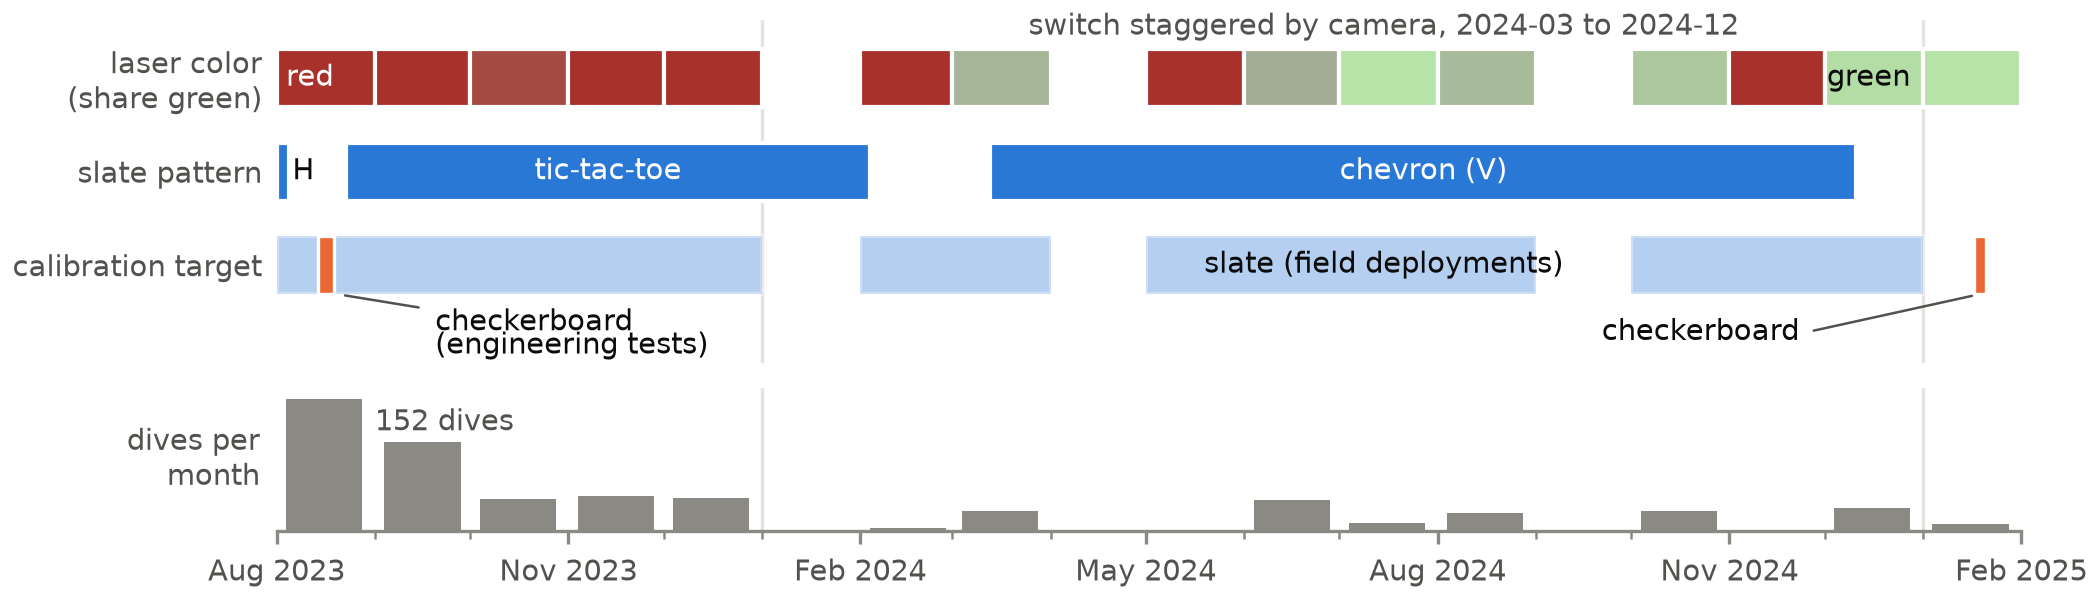
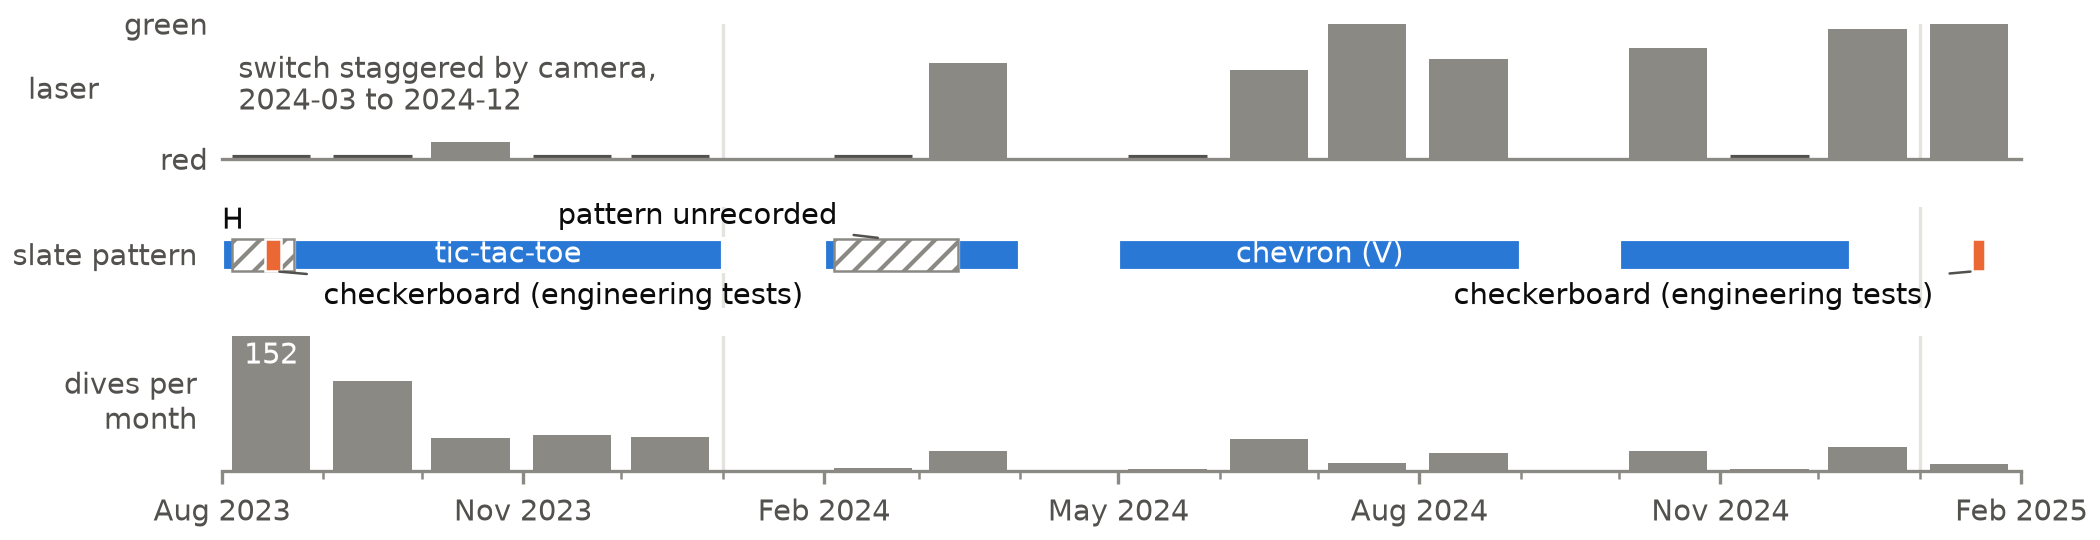
fig: timeline in three lanes, laser as monthly bars
Laser lane: a bar per month for the share of dives with a green laser
(0% red, 100% green), styled like the dives histogram, so it reads in
grayscale and for red-green colorblind readers. Calibration-target lane
merged into the slate lane (checkerboard engineering tests marked on
it). Months with no dives are blank in every lane; hatching marks only
field dives whose pattern is unrecorded. 7 x 1.8 in.

diff --git a/analysis/codesign/fig_timeline.py b/analysis/codesign/fig_timeline.py
@@ -1,24 +1,24 @@
 """Figure fig:timeline (SenSys section 4): how the input was shaped for people over the collection period.
 
-Time axis 2023-08 .. 2025-01 (the collection period). Four lanes, all from the per-dive extract
+Time axis 2023-08 .. 2025-01 (the collection period). Three lanes, all from the per-dive extract
 data/db_extracts/timeline_dives.psv (sql/extract_timeline_dives.sql) unless noted:
-  laser color         per month, the share of laser-labeled dives that are green (a dive is red or
-                      green when >= 90% of its completed laser labels with a dot are that color; mixed
-                      dives count as not green). Months with no dives are left empty. Red -> green with
-                      lightness rising monotonically, so the lane reads in grayscale.
-  slate pattern       H, tic-tac-toe, chevron (V), each from the first to the last dive known to use it:
-                      dive.dive_slate_id (36 dives), a dive's calibration dive's slate (dive.calibration_dive_id,
-                      15 more), and slate frames read by eye (analysis/codesign/slate_pattern_reads.csv, image
-                      ids listed; tic-tac-toe on 2023-08-23 and 2023-12-01 .. 2024-02-03). The short changeovers
-                      between patterns (2023-08-04 .. 08-22, 2024-02-04 .. 03-12) are left blank; after
-                      2024-12-10 there are no field dives.
-  calibration target  checkerboard engineering tests: 2023-08-14..18 (dive.calibration_target_id) and
-                      2025-01-17 (TG-7 sessions; analysis/codesign/timeline.yaml); slate: the months with
-                      field (reef) dives (data/db_extracts/dive_environment.psv).
-  dives per month     all 525 dives by capture month (camera clock).
-Dates are tabulated by analysis/codesign/timeline_dates.py. No mount lane: its dates are unrecorded.
+  laser color       a bar per month: the share of laser-labeled dives with a green laser (a dive is red or
+                    green when >= 90% of its completed laser labels with a dot are that color; mixed dives
+                    count as not green), 0% labeled "red", 100% "green". Bar height carries the value, so
+                    it reads in grayscale and for red-green colorblind readers. A month with labeled dives
+                    but 0% green gets a short stub on the baseline so it is not mistaken for an empty month.
+  slate pattern     H, tic-tac-toe, chevron (V), each from the first to the last dive known to use it:
+                    dive.dive_slate_id (36 dives), a dive's calibration dive's slate (dive.calibration_dive_id;
+                    data/db_extracts/timeline_slate_links.psv, sql/extract_timeline_slate_links.sql, 15 more),
+                    and slate frames read by eye (analysis/codesign/slate_pattern_reads.csv, image ids listed).
+                    Checkerboard engineering tests on the same lane: 2023-08-14..18 (dive.calibration_target_id)
+                    and 2025-01-17 (TG-7 sessions; analysis/codesign/timeline.yaml). Hatched = dives whose
+                    pattern is unrecorded (field dives between two patterns: 2023-08-17, 2024-02-28).
+  dives per month   all 525 dives by capture month (camera clock).
+Months with no dives (2024-01, 2024-04, 2024-09) are blank in every lane. Dates are tabulated by
+analysis/codesign/timeline_dates.py. No mount lane: its dates are unrecorded.
 
-Writes analysis/codesign/figures/fig_timeline.{pdf,png} at 7 x 2 in, no title, no metadata.
+Writes analysis/codesign/figures/fig_timeline.{pdf,png} at 7 x 1.8 in, no title, no metadata.
 Run: uv run python analysis/codesign/fig_timeline.py
 """
 from __future__ import annotations
@@ -27,134 +27,142 @@ import matplotlib
 matplotlib.use("Agg")
 import matplotlib.dates as mdates
 import matplotlib.pyplot as plt
-import numpy as np
 import pandas as pd
-from matplotlib.colors import LinearSegmentedColormap, to_rgb
 from matplotlib.patches import Rectangle
 
 from fishsense_cscw.paths import REPO
 
 OUT = REPO / "analysis/codesign/figures"
-W, H, FS = 7.0, 2.0, 7
+W, H, FS = 7.0, 1.8, 7
 BLUE, ORANGE = "#2a78d6", "#eb6834"                     # reference palette slots 1-2 (slate, checkerboard)
 INK, INK2, MUTED, GRID = "#0b0b0b", "#52514e", "#8a8984", "#e4e3df"
-RED, MID, GREEN = "#a8322b", "#9a958c", "#b6e3a8"        # laser share: dark red -> gray -> light green
 T0, T1 = pd.Timestamp("2023-08-01"), pd.Timestamp("2025-02-01")
 CB_TESTS = [("2023-08-14", "2023-08-18"), ("2025-01-17", "2025-01-17")]
-LANES = {"laser": 2, "slate": 1, "target": 0}
-BAR = 0.62
-MIN_DAYS = 4          # draw a one-day span at least this wide so it prints
+BAR, MIN_DAYS, BAR_DAYS = 0.6, 4, 24   # lane bar height; narrowest span drawn (days); monthly bar width (days)
 
 
-def luminance(c):
-    r, g, b = [x / 12.92 if x <= 0.04045 else ((x + 0.055) / 1.055) ** 2.4 for x in to_rgb(c)]
-    return 0.2126 * r + 0.7152 * g + 0.0722 * b
+def x(t):
+    return mdates.date2num(pd.Timestamp(t))
 
 
-def span(ax, y, a, b, **kw):
-    a, b = pd.Timestamp(a), pd.Timestamp(b) + pd.Timedelta(days=1)
+def pattern(name):
+    n = str(name)
+    return "H" if n.startswith("H") else "tic-tac-toe" if n.startswith("Tic") else "chevron (V)" if n.startswith("V") else None
+
+
+def pieces(a, b, empty):
+    """[a, b) split around months with no dives, so those months stay blank."""
+    out, cur = [], pd.Timestamp(a)
+    b = pd.Timestamp(b)
+    for m in sorted(empty):
+        s, e = m.start_time, (m + 1).start_time
+        if s < b and e > cur:
+            if s > cur:
+                out.append((cur, s))
+            cur = max(cur, e)
+    if cur < b:
+        out.append((cur, b))
+    return out
+
+
+def lane_box(ax, a, b, y=0.0, **kw):
+    a, b = pd.Timestamp(a), pd.Timestamp(b)
     if (b - a).days < MIN_DAYS:
         b = a + pd.Timedelta(days=MIN_DAYS)
-    ax.add_patch(Rectangle((mdates.date2num(a), y - BAR / 2), mdates.date2num(b) - mdates.date2num(a), BAR, **kw))
+    ax.add_patch(Rectangle((x(a), y - BAR / 2), x(b) - x(a), BAR, **kw))
     return a, b
 
 
 def main():
-    assert luminance(RED) < luminance(MID) < luminance(GREEN), "laser ramp must lighten red -> green"
     D = pd.read_csv(REPO / "data/db_extracts/timeline_dives.psv", sep="|", header=None,
                     names="dive_id dive_datetime camera slate target images red green".split())
     D["t"] = pd.to_datetime(D.dive_datetime, utc=True).dt.tz_localize(None); D["month"] = D.t.dt.to_period("M")
     E = pd.read_csv(REPO / "data/db_extracts/dive_environment.psv", sep="|", header=None, names=["dive_id", "env"])
     D = D.merge(E, on="dive_id", how="left")
     lab = D.red + D.green
-    D["is_green"] = (lab > 0) & (D.green >= 0.9 * lab)
-    D["labelled"] = lab > 0
+    D["labeled"] = lab > 0; D["is_green"] = D.labeled & (D.green >= 0.9 * lab)
     months = pd.period_range("2023-08", "2025-01", freq="M")
-    per = D.groupby("month").agg(dives=("dive_id", "size"), labelled=("labelled", "sum"), green=("is_green", "sum")).reindex(months, fill_value=0)
+    per = D.groupby("month").agg(dives=("dive_id", "size"), labeled=("labeled", "sum"), green=("is_green", "sum")).reindex(months, fill_value=0)
+    empty = [m for m in months if per.loc[m, "dives"] == 0]
+    mid = [x(m.start_time + pd.Timedelta(days=15)) for m in months]
 
     plt.rcParams.update({"font.size": FS, "axes.labelsize": FS, "xtick.labelsize": FS, "ytick.labelsize": FS,
                          "axes.edgecolor": MUTED, "text.color": INK, "xtick.color": INK2, "ytick.color": INK2,
                          "pdf.fonttype": 42, "savefig.bbox": "standard"})
-    fig, (ax, hx) = plt.subplots(2, 1, figsize=(W, H), sharex=True, layout="constrained",
-                                 gridspec_kw=dict(height_ratios=[3, 1.25], hspace=0.02))
-    cmap = LinearSegmentedColormap.from_list("laser", [RED, MID, GREEN])
+    fig, (lx, sx, hx) = plt.subplots(3, 1, figsize=(W, H), sharex=True, layout="constrained",
+                                     gridspec_kw=dict(height_ratios=[1.0, 0.75, 1.0]))
 
-    # lane 1: laser color, share of labeled dives that are green
-    for m, r in per.iterrows():
-        a, b = m.start_time, (m + 1).start_time
-        if r.labelled:
-            ax.add_patch(Rectangle((mdates.date2num(a), LANES["laser"] - BAR / 2), mdates.date2num(b) - mdates.date2num(a), BAR,
-                                   fc=cmap(r.green / r.labelled), ec="white", lw=1.0))
-    ax.text(mdates.date2num(pd.Timestamp("2023-08-04")), LANES["laser"], "red", va="center", ha="left", color="white", fontsize=FS)
-    ax.text(mdates.date2num(pd.Timestamp("2024-12-28")), LANES["laser"], "green", va="center", ha="right", color=INK, fontsize=FS)
-    ax.text(mdates.date2num(pd.Timestamp("2024-07-15")), LANES["laser"] + BAR / 2 + 0.08, "switch staggered by camera, 2024-03 to 2024-12",
-            va="bottom", ha="center", color=INK2, fontsize=FS)
+    # lane 1: share of labeled dives with a green laser, one bar per month
+    share = (per.green / per.labeled.where(per.labeled > 0))
+    for xm, m in zip(mid, months):
+        if per.loc[m, "labeled"] == 0:
+            continue
+        v = share.loc[m]
+        lx.bar(xm, max(v, 0.0), width=BAR_DAYS, color=MUTED, edgecolor="none")
+        if v == 0:
+            lx.plot([xm - BAR_DAYS / 2, xm + BAR_DAYS / 2], [0, 0], color=INK2, lw=2.2, solid_capstyle="butt")
+    lx.set_ylim(0, 1.0); lx.set_yticks([0, 1], ["red", "green"])
+    lx.text(x("2023-08-06"), 0.55, "switch staggered by camera,\n2024-03 to 2024-12", va="center", ha="left", color=INK2, fontsize=FS, linespacing=1.0)
+    lx.set_ylabel("laser", rotation=0, ha="right", va="center", labelpad=6, color=INK2)
 
-    # lane 2: slate pattern from the first to the last dive known to use it (DB, calibration-dive link, image reads)
-    def pat(name):
-        n = str(name)
-        return "H" if n.startswith("H") else "tic-tac-toe" if n.startswith("Tic") else "chevron (V)" if n.startswith("V") else None
-    known = D.assign(pattern=D.slate.map(pat))[["t", "pattern"]].dropna()
+    # lane 2: slate pattern, checkerboard tests on the same lane
+    known = D.assign(pattern=D.slate.map(pattern))[["t", "pattern"]].dropna()
     link = pd.read_csv(REPO / "data/db_extracts/timeline_slate_links.psv", sep="|", header=None, names=["dive_id", "slate"])
-    link = link.merge(D[["dive_id", "t"]], on="dive_id").assign(pattern=lambda x: x.slate.map(pat))[["t", "pattern"]]
+    link = link.merge(D[["dive_id", "t"]], on="dive_id").assign(pattern=lambda d: d.slate.map(pattern))[["t", "pattern"]]
     reads = pd.read_csv(REPO / "analysis/codesign/slate_pattern_reads.csv", parse_dates=["date"]).query("pattern != 'unreadable'")
-    reads = reads.rename(columns={"date": "t"})[["t", "pattern"]]
-    known = pd.concat([known, link, reads]).groupby("pattern").t.agg(["min", "max"])
-    for name in ("H", "tic-tac-toe", "chevron (V)"):
-        a_, b_ = span(ax, LANES["slate"], known.loc[name, "min"].normalize(), known.loc[name, "max"].normalize(), fc=BLUE, ec="white", lw=1.0)
-        if name == "H":
-            ax.text(mdates.date2num(b_) + 1, LANES["slate"], "H", va="center", ha="left", color=INK, fontsize=FS)
+    known = pd.concat([known, link, reads.rename(columns={"date": "t"})[["t", "pattern"]]]).groupby("pattern").t.agg(["min", "max"])
+    spans = {p: (known.loc[p, "min"].normalize(), known.loc[p, "max"].normalize() + pd.Timedelta(days=1)) for p in known.index}
+    for p, (a, b) in spans.items():
+        parts = pieces(a, b, empty)
+        for pa, pb in parts:
+            lane_box(sx, pa, pb, fc=BLUE, ec="white", lw=1.0)
+        widest = max(parts, key=lambda q: q[1] - q[0])
+        if p == "H":   # above the lane: the changeover after it is hatched
+            sx.text(x(widest[0]), BAR / 2 + 0.06, "H", va="bottom", ha="left", color=INK, fontsize=FS)
         else:
-            ax.text(mdates.date2num(a_ + (b_ - a_) / 2), LANES["slate"], name, va="center", ha="center", color="white", fontsize=FS)
-
-    # lane 3: calibration target; slate over months with field dives, checkerboard tests as short bars
-    field = sorted(D[D.env == "reef"].month.unique())
-    runs, cur = [], [field[0], field[0]]
-    for m in field[1:]:
-        if m == cur[1] + 1:
-            cur[1] = m
-        else:
-            runs.append(cur); cur = [m, m]
-    runs.append(cur)
-    for a, b in runs:
-        x0, x1 = mdates.date2num(a.start_time), mdates.date2num((b + 1).start_time)
-        ax.add_patch(Rectangle((x0, LANES["target"] - BAR / 2), x1 - x0, BAR, fc=BLUE, ec="white", lw=1.0, alpha=0.35))
-    ax.text(mdates.date2num(pd.Timestamp("2024-07-15")), LANES["target"], "slate (field deployments)", va="center", ha="center", color=INK, fontsize=FS)
+            sx.text(x(widest[0] + (widest[1] - widest[0]) / 2), 0, p, va="center", ha="center", color="white", fontsize=FS)
+    # hatched: field dives between two patterns whose pattern is unrecorded
+    order = sorted(spans.items(), key=lambda kv: kv[1][0])
+    for (_, (_, b0)), (_, (a1, _)) in zip(order, order[1:]):
+        field = D[(D.t >= b0) & (D.t < a1) & (D.env == "reef")]
+        if len(field):
+            for pa, pb in pieces(b0, a1, empty):
+                lane_box(sx, pa, pb, fc="white", ec=MUTED, lw=0.6, hatch="////")
     for a, b in CB_TESTS:
-        span(ax, LANES["target"], a, b, fc=ORANGE, ec="white", lw=0.8, zorder=3)
-    ax.annotate("checkerboard\n(engineering tests)", xy=(mdates.date2num(pd.Timestamp("2023-08-20")), LANES["target"] - BAR / 2),
-                xytext=(mdates.date2num(pd.Timestamp("2023-09-20")), LANES["target"] - 0.72), textcoords="data", va="center", ha="left",
-                fontsize=FS, color=INK, linespacing=0.9, arrowprops=dict(arrowstyle="-", color=INK2, lw=0.6))
-    ax.annotate("", xy=(mdates.date2num(pd.Timestamp("2025-01-19")), LANES["target"] - BAR / 2),
-                xytext=(mdates.date2num(pd.Timestamp("2024-11-25")), LANES["target"] - 0.72), arrowprops=dict(arrowstyle="-", color=INK2, lw=0.6))
-    ax.text(mdates.date2num(pd.Timestamp("2024-11-23")), LANES["target"] - 0.72, "checkerboard", va="center", ha="right", fontsize=FS, color=INK)
+        lane_box(sx, a, pd.Timestamp(b) + pd.Timedelta(days=1), fc=ORANGE, ec="white", lw=0.6, zorder=3)
+    sx.annotate("checkerboard (engineering tests)", xy=(x("2023-08-16"), -BAR / 2), xytext=(x("2023-09-01"), -0.78),
+                va="center", ha="left", fontsize=FS, color=INK, arrowprops=dict(arrowstyle="-", color=INK2, lw=0.6))
+    sx.annotate("checkerboard (engineering tests)", xy=(x("2025-01-19"), -BAR / 2), xytext=(x("2025-01-05"), -0.78),
+                va="center", ha="right", fontsize=FS, color=INK, arrowprops=dict(arrowstyle="-", color=INK2, lw=0.6))
+    sx.annotate("pattern unrecorded", xy=(x("2024-02-20"), BAR / 2), xytext=(x("2024-02-05"), 0.72),
+                va="center", ha="right", fontsize=FS, color=INK, arrowprops=dict(arrowstyle="-", color=INK2, lw=0.6))
+    sx.set_ylim(-1.0, 0.9); sx.set_yticks([])
+    sx.set_ylabel("slate pattern", rotation=0, ha="right", va="center", labelpad=6, color=INK2)
 
-    ax.set_ylim(-1.05, 2.62); ax.set_yticks([2, 1, 0], ["laser color\n(share green)", "slate pattern", "calibration target"])
-    ax.tick_params(axis="y", length=0); ax.tick_params(axis="x", which="both", length=0, labelbottom=False)
-    for s in ("top", "right", "bottom", "left"):
-        ax.spines[s].set_visible(False)
-
-    # lane 4: dives per month
-    x = [mdates.date2num(m.start_time + pd.Timedelta(days=15)) for m in months]
-    hx.bar(x, per.dives.values, width=24, color=MUTED, edgecolor="none")
+    # lane 3: dives per month
+    hx.bar(mid, per.dives.values, width=BAR_DAYS, color=MUTED, edgecolor="none")
     top = per.dives.idxmax()
-    hx.text(mdates.date2num(top.start_time + pd.Timedelta(days=15)) + 16, per.dives.max() * 0.82, f"{per.dives.max()} dives", fontsize=FS, color=INK2, va="center")
-    hx.set_ylim(0, per.dives.max() * 1.08); hx.set_yticks([]); hx.set_ylabel("dives per\nmonth", rotation=0, ha="right", va="center", labelpad=4, color=INK2)
-    for s in ("top", "right", "left"):
-        hx.spines[s].set_visible(False)
-    hx.spines["bottom"].set_color(MUTED)
+    hx.text(x(top.start_time + pd.Timedelta(days=15)), per.dives.max() - 6, f"{per.dives.max()}", va="top", ha="center", color="white", fontsize=FS)
+    hx.set_ylim(0, per.dives.max()); hx.set_yticks([])
+    hx.set_ylabel("dives per\nmonth", rotation=0, ha="right", va="center", labelpad=6, color=INK2)
+
+    for a in (lx, sx, hx):
+        for s in ("top", "right", "left"):
+            a.spines[s].set_visible(False)
+        a.spines["bottom"].set_visible(a is not sx); a.spines["bottom"].set_color(MUTED)
+        a.tick_params(axis="x", which="both", length=0, labelbottom=a is hx)
+        a.tick_params(axis="y", length=0)
+        for yr in ("2024-01-01", "2025-01-01"):
+            a.axvline(x(yr), color=GRID, lw=0.8, zorder=0)
     hx.xaxis.set_major_locator(mdates.MonthLocator(bymonth=[2, 5, 8, 11]))
     hx.xaxis.set_major_formatter(mdates.DateFormatter("%b %Y")); hx.xaxis.set_minor_locator(mdates.MonthLocator())
     hx.tick_params(axis="x", which="minor", length=2, color=MUTED); hx.tick_params(axis="x", which="major", length=3, color=MUTED)
-    hx.set_xlim(mdates.date2num(T0), mdates.date2num(T1))
-    for a in (ax, hx):
-        for yr in ("2024-01-01", "2025-01-01"):
-            a.axvline(mdates.date2num(pd.Timestamp(yr)), color=GRID, lw=0.8, zorder=0)
+    hx.set_xlim(x(T0), x(T1))
 
     OUT.mkdir(exist_ok=True)
     fig.savefig(OUT / "fig_timeline.pdf", metadata={"Creator": None, "Producer": None, "CreationDate": None, "ModDate": None})
     fig.savefig(OUT / "fig_timeline.png", dpi=300, metadata={"Software": None})
-    print("wrote fig_timeline; months:", per.dives.to_dict())
+    print("wrote fig_timeline; share green by month:", share.round(2).dropna().to_dict())
 
 
 if __name__ == "__main__":
